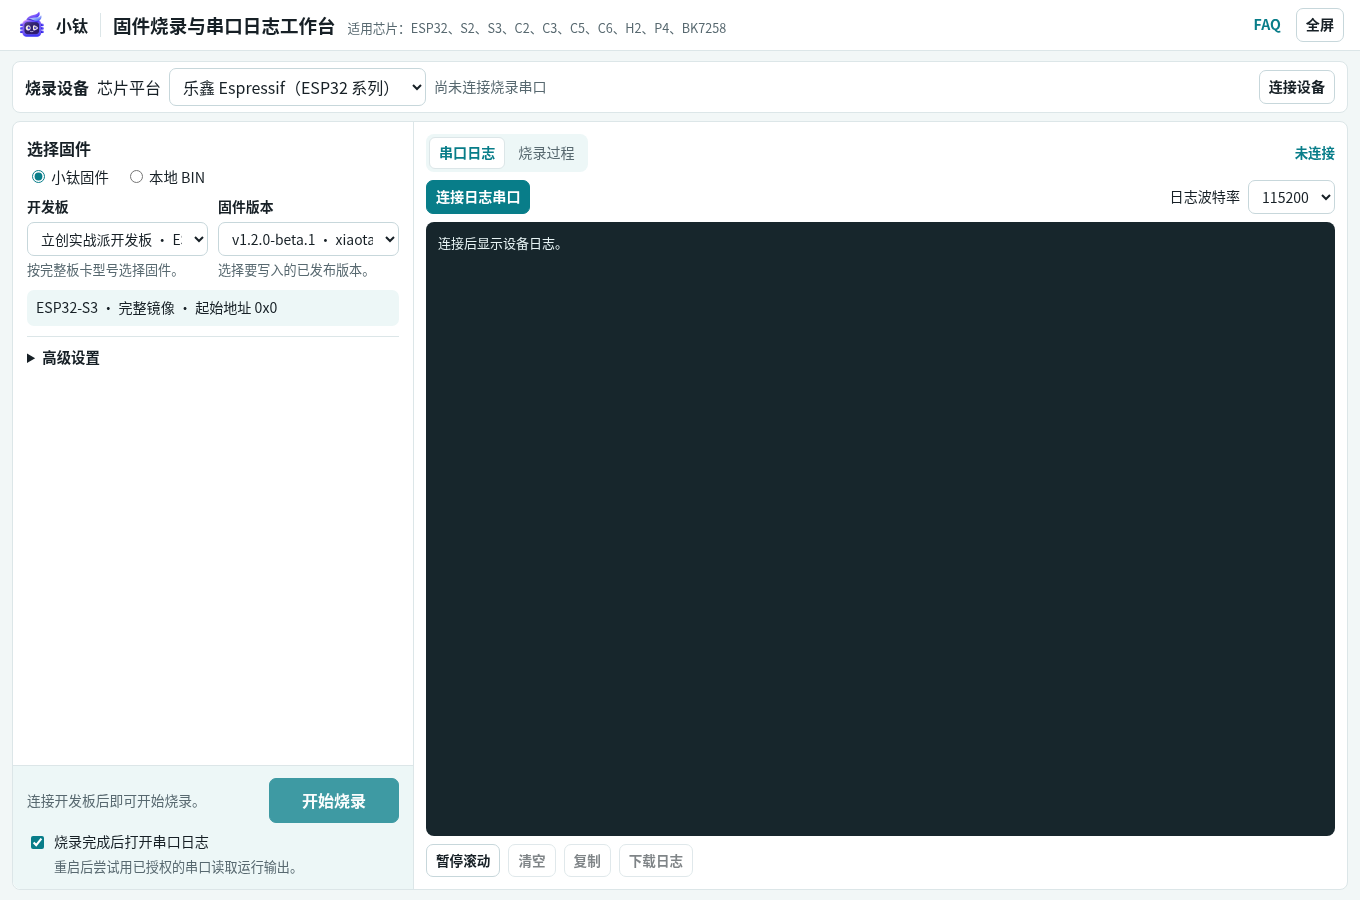
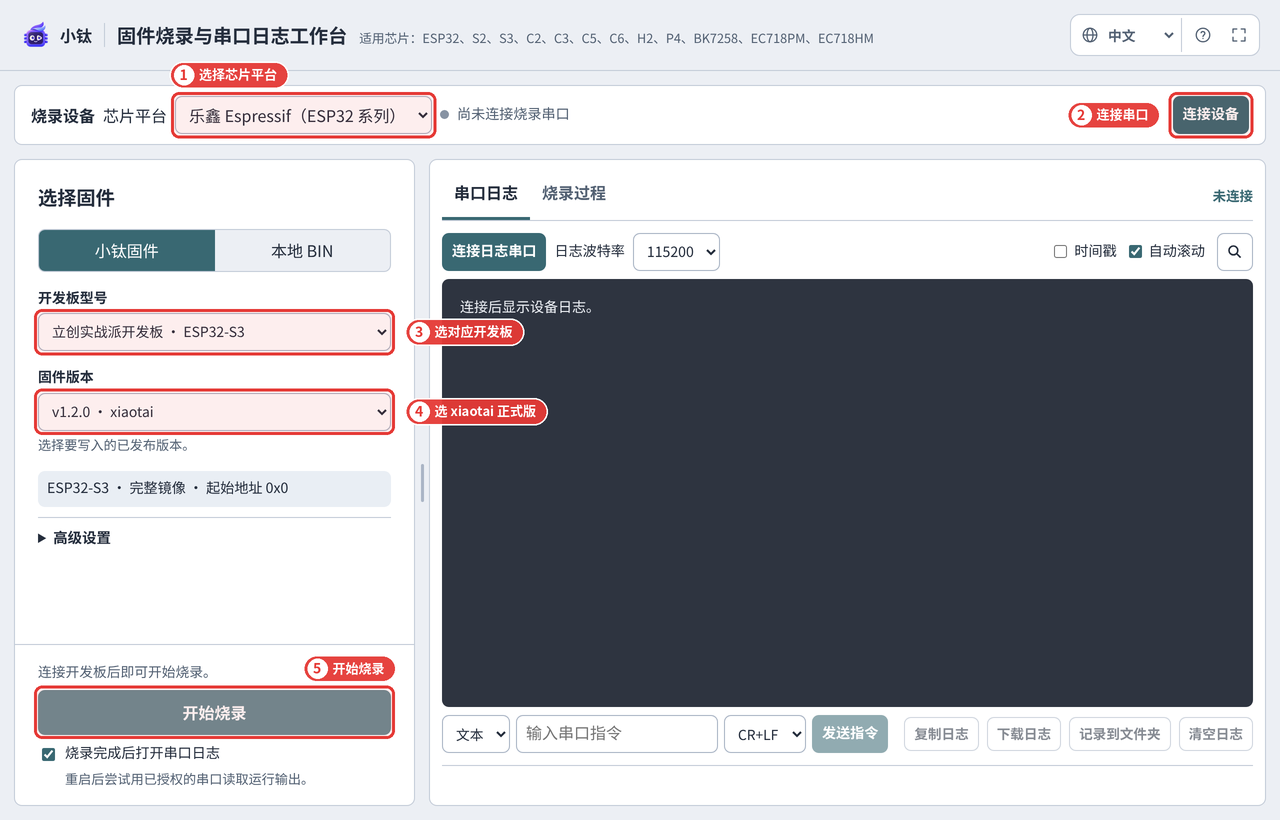
docs: 更新中英文网页烧录标注截图并精简首次体验步骤

diff --git a/README.en.md b/README.en.md
@@ -29,46 +29,19 @@ M5 supports only the ILI9342C display controller; MGKFB BK7258 targets the 8 MiB
 Flash directly from desktop Chrome or Edge (typically 2–3 minutes) without installing a build toolchain:
 
 1. Connect the board to your computer with a data-capable USB cable and close any serial monitor using that port.
-2. Open the [XiaoTai Web Flasher](https://xiaotai.chat/web-flasher/), select the chip platform, and click **连接设备** (Connect) to pick the board's serial port.
-3. Under **小钛固件** (XiaoTai firmware), choose your board and the current stable release (such as `v1.2.0`), verify address `0x0`, and start flashing.
+2. Open the [XiaoTai Web Flasher](https://xiaotai.chat/web-flasher/), select the chip family, and click **Connect device** to pick the board's serial port.
+3. Under **Xiaotai firmware**, choose your board and the current `xiaotai` release (such as `v1.2.0`), verify address `0x0`, and click **Start flashing**.
 
-![XiaoTai Web Flasher and serial console (UI example; select the current stable release when flashing)](docs/images/flashing/xiaotai-lckfb-esp32s3.png)
+![XiaoTai Web Flasher and serial console (LCKFB ESP32-S3 with v1.2.0 · xiaotai selected)](docs/images/flashing/xiaotai-lckfb-esp32s3.en.png)
 
-See each board's flashing guide above for USB ports and download mode. For a downloaded release, choose **本地 BIN** (local BIN) with `_merged.bin` for ESP32 or `_all-app.bin` for BK7258 at `0x0`. ESP32 full images overwrite Wi-Fi and binding settings; for BK7258, back up factory calibration first and avoid full-chip erase.
+See each board's flashing guide above for USB ports and download mode. For a downloaded release, choose **Local BIN** with `_merged.bin` for ESP32 or `_all-app.bin` for BK7258 at `0x0`. ESP32 full images overwrite Wi-Fi and binding settings; for BK7258, back up factory calibration first and avoid full-chip erase.
 
 ## First use
 
-### 1. Configure Wi-Fi
-
-After flashing and restarting, a device without a usable network configuration displays or speaks a setup prompt and broadcasts an open `XiaoTai-XXXX` hotspot. Connect your phone or computer; a “no internet” warning is expected.
-
-If the setup page does not open automatically, visit `http://192.168.6.1`, select a 2.4 GHz Wi-Fi network, enter the router password, and submit. If the hotspot reappears, the connection failed. Check the password and signal, then retry.
-
-### 2. Bind the device
-
-An already bound device is ready to use once it comes online. If binding is required, the device displays or reads out a six-digit verification code.
-
-Reconnect your phone or computer to the internet, sign in to the [XiaoTai devices page](https://xiaotai.chat/devices), and enter the code under “添加设备” (Add device). If it expires, use the newly generated code.
-
-Binding succeeds when the device appears in the list and returns to its home screen, eye display, or ready state.
-
-### 3. Start using the device
-
-Follow your board guide to start an AI conversation using the screen or physical buttons. Open live view and two-way audio from the web device page. For WeChat calls, follow the device prompts to add a WeChat contact first. After a session ends, the device should return to standby and be ready for another session.
-
-WeChat video support, device-to-device calls, and group intercom depend on the board; see its guide. For example, LCKFB ShiZhanPai ESP32-S3 currently supports WeChat voice calls while using its camera for browser live view.
-
-### 4. Recovery and troubleshooting
-
-To change networks or rebind a touchscreen device, open “设备设置 → 重置设备” (Device settings → Reset device), confirm, then configure Wi-Fi and bind again. For devices without touch input, use the physical buttons or serial commands described in the board guide. Do not perform an arbitrary full-chip erase.
-
-If something goes wrong, check the troubleshooting section of the board guide first. When reporting a problem, include the board ID, firmware version, steps, and symptoms. For audio or video issues, specify the affected direction, such as “no sound from browser to device.” Include serial logs if available.
-
-### Quick FAQ
-
-- **Do I need ESP-IDF or a build toolchain?** No. Use the Chrome/Edge Web Flasher above to try a release; you only need a local toolchain when modifying firmware from source.
-- **Does LCKFB ESP32-S3 support WeChat video calls?** Currently it supports WeChat voice calls while using its camera for browser live view; see Waveshare ESP32-P4 for WeChat audio/video calls.
-- **Serial port not found or Wi-Fi setup fails?** Check your USB data cable, serial driver, and 2.4 GHz Wi-Fi, then check the board guide's troubleshooting section or ask in Discussions with your board ID and symptoms.
+1. **Configure Wi-Fi**: After reboot, connect to the open `XiaoTai-XXXX` hotspot ("no internet" is expected). Visit `http://192.168.6.1` if the portal does not open, then submit your 2.4 GHz Wi-Fi credentials.
+2. **Bind the device**: Reconnect to the internet, open the [XiaoTai devices page](https://xiaotai.chat/devices), and enter the six-digit code shown or spoken by the device under Add device.
+3. **Start using**: Start AI chat or WeChat calls on the device, and open live view and two-way audio on the web page. Boards such as LCKFB ESP32-S3 use WeChat voice calls while streaming camera video to browser live view; see each board guide for details.
+4. **Reset and troubleshoot**: To change Wi-Fi or rebind, use Device settings → Reset device on touchscreens (see the board guide for button/serial reset) and avoid arbitrary full-chip erase. Check the board guide's troubleshooting section first; include board ID, firmware version, audio/video direction, and serial logs when reporting issues.
 
 ## Get involved
 
